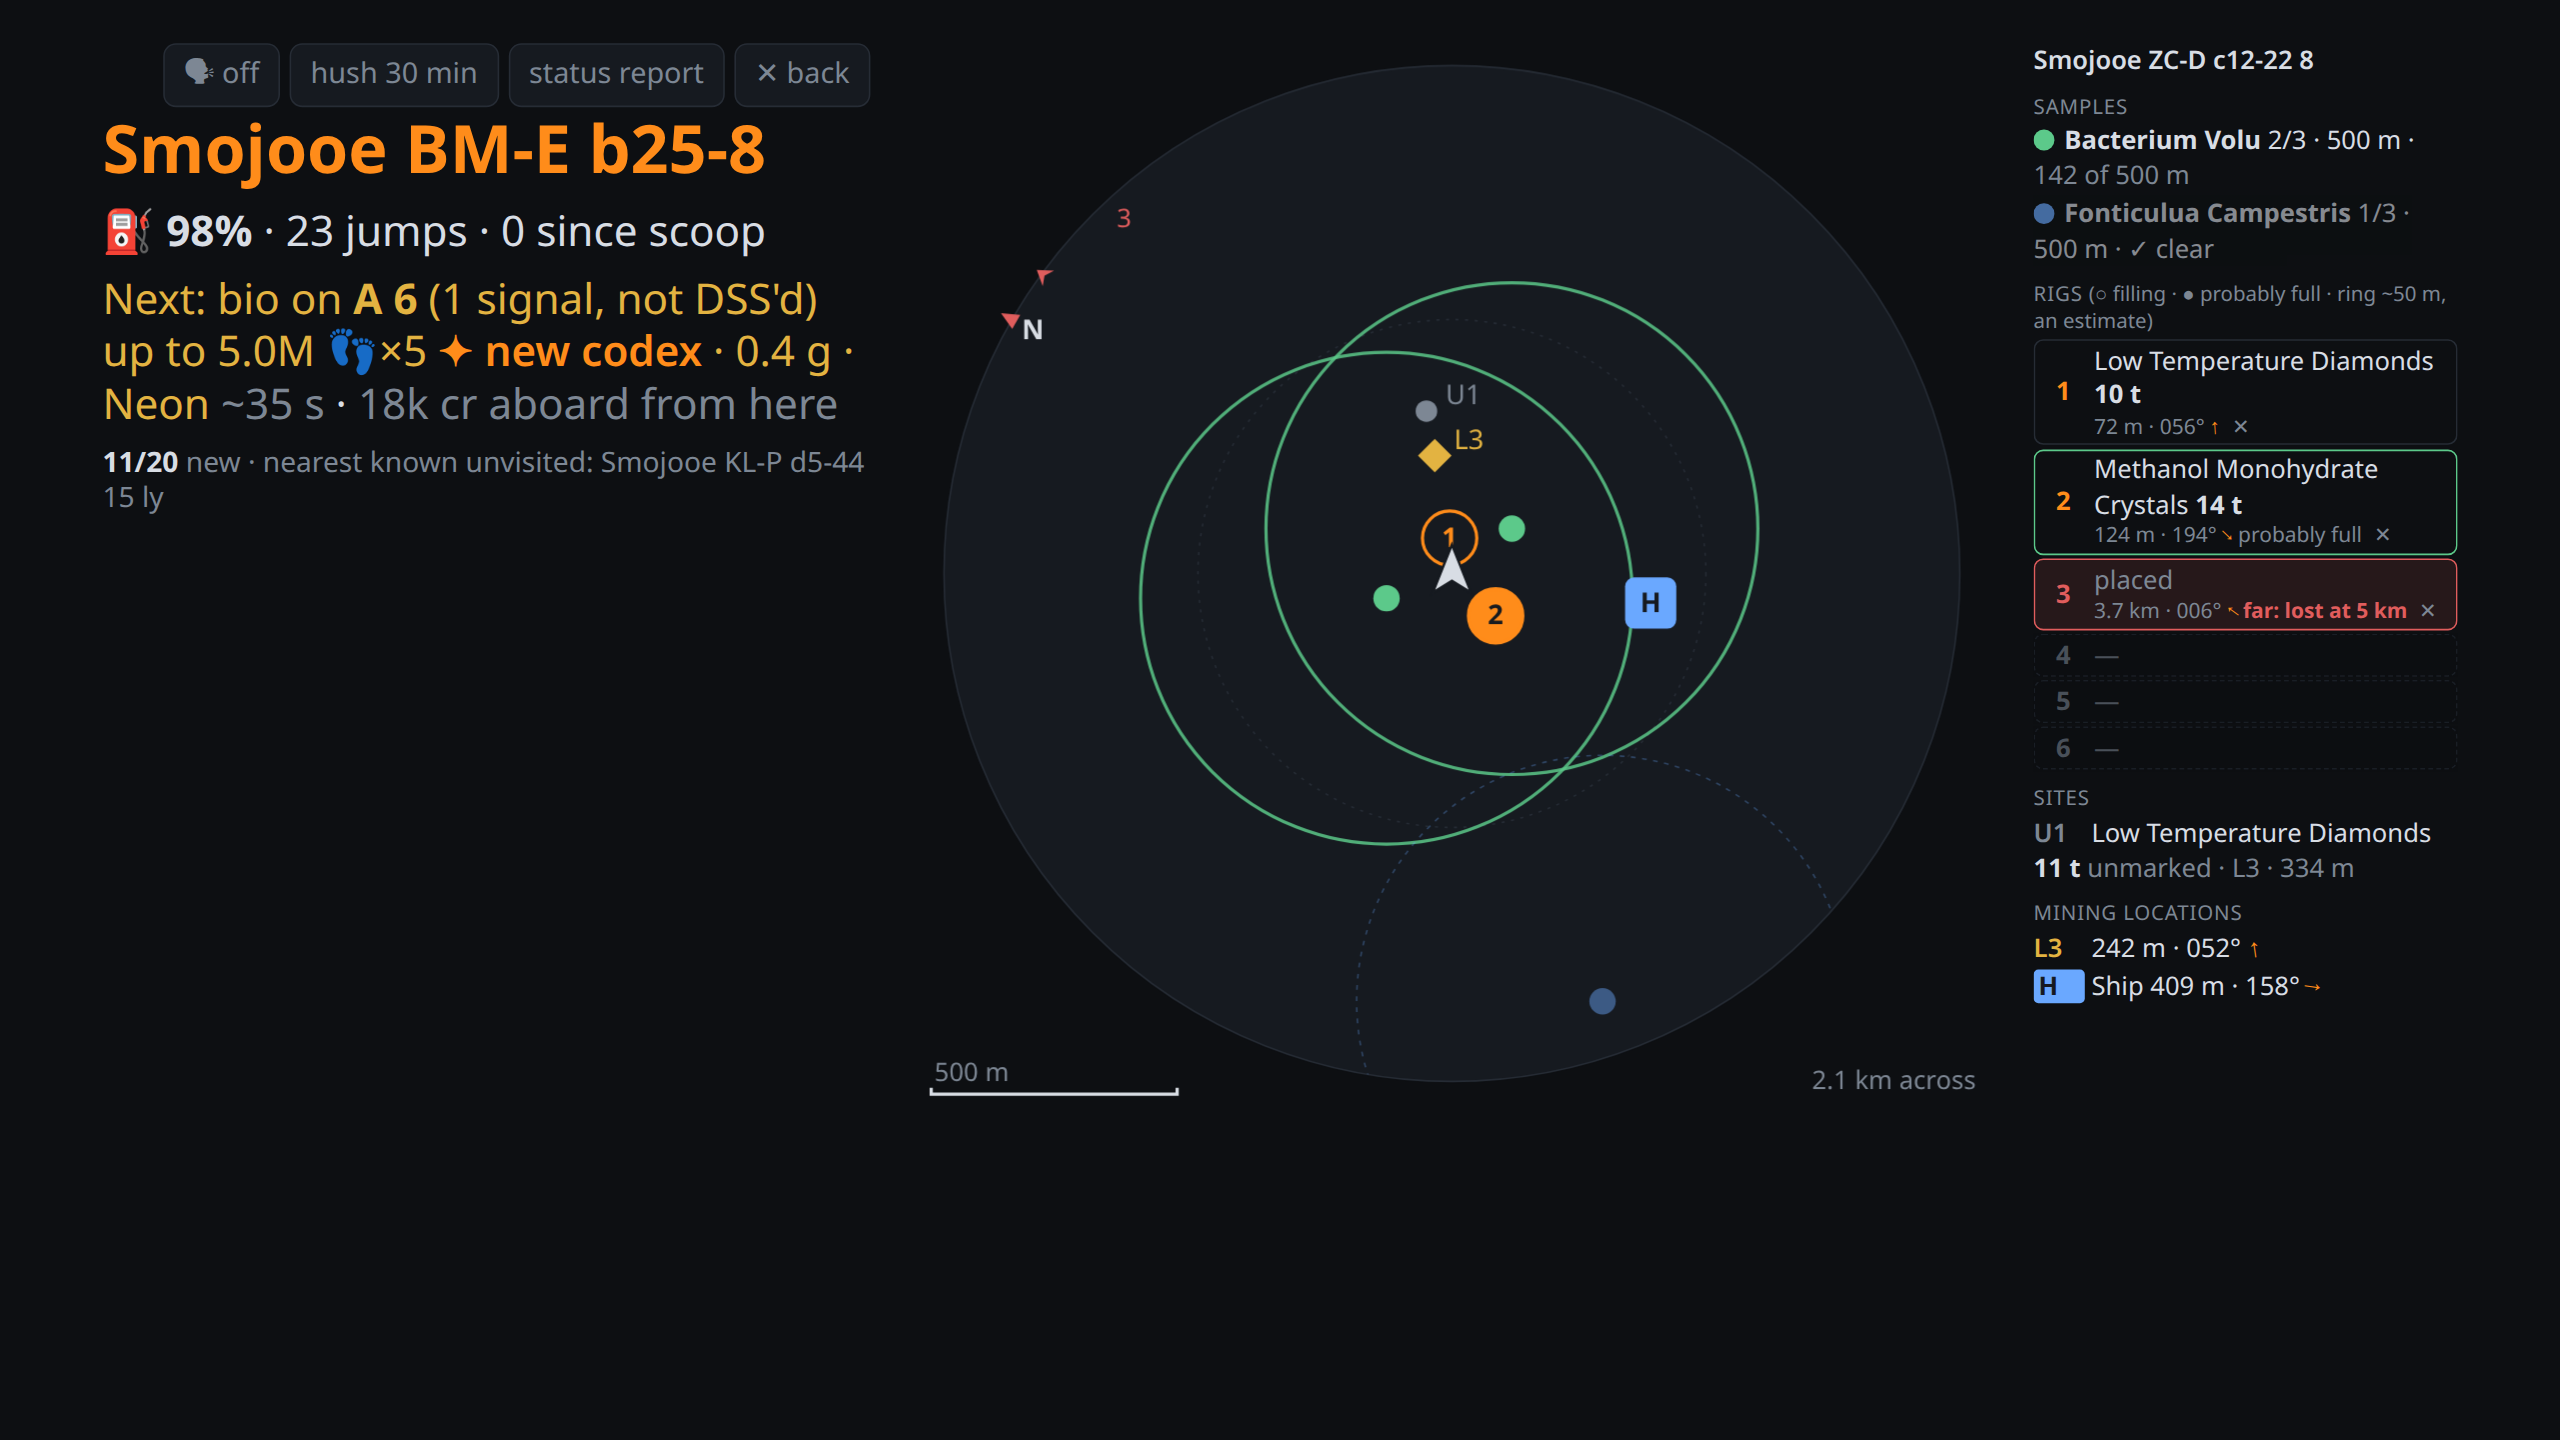
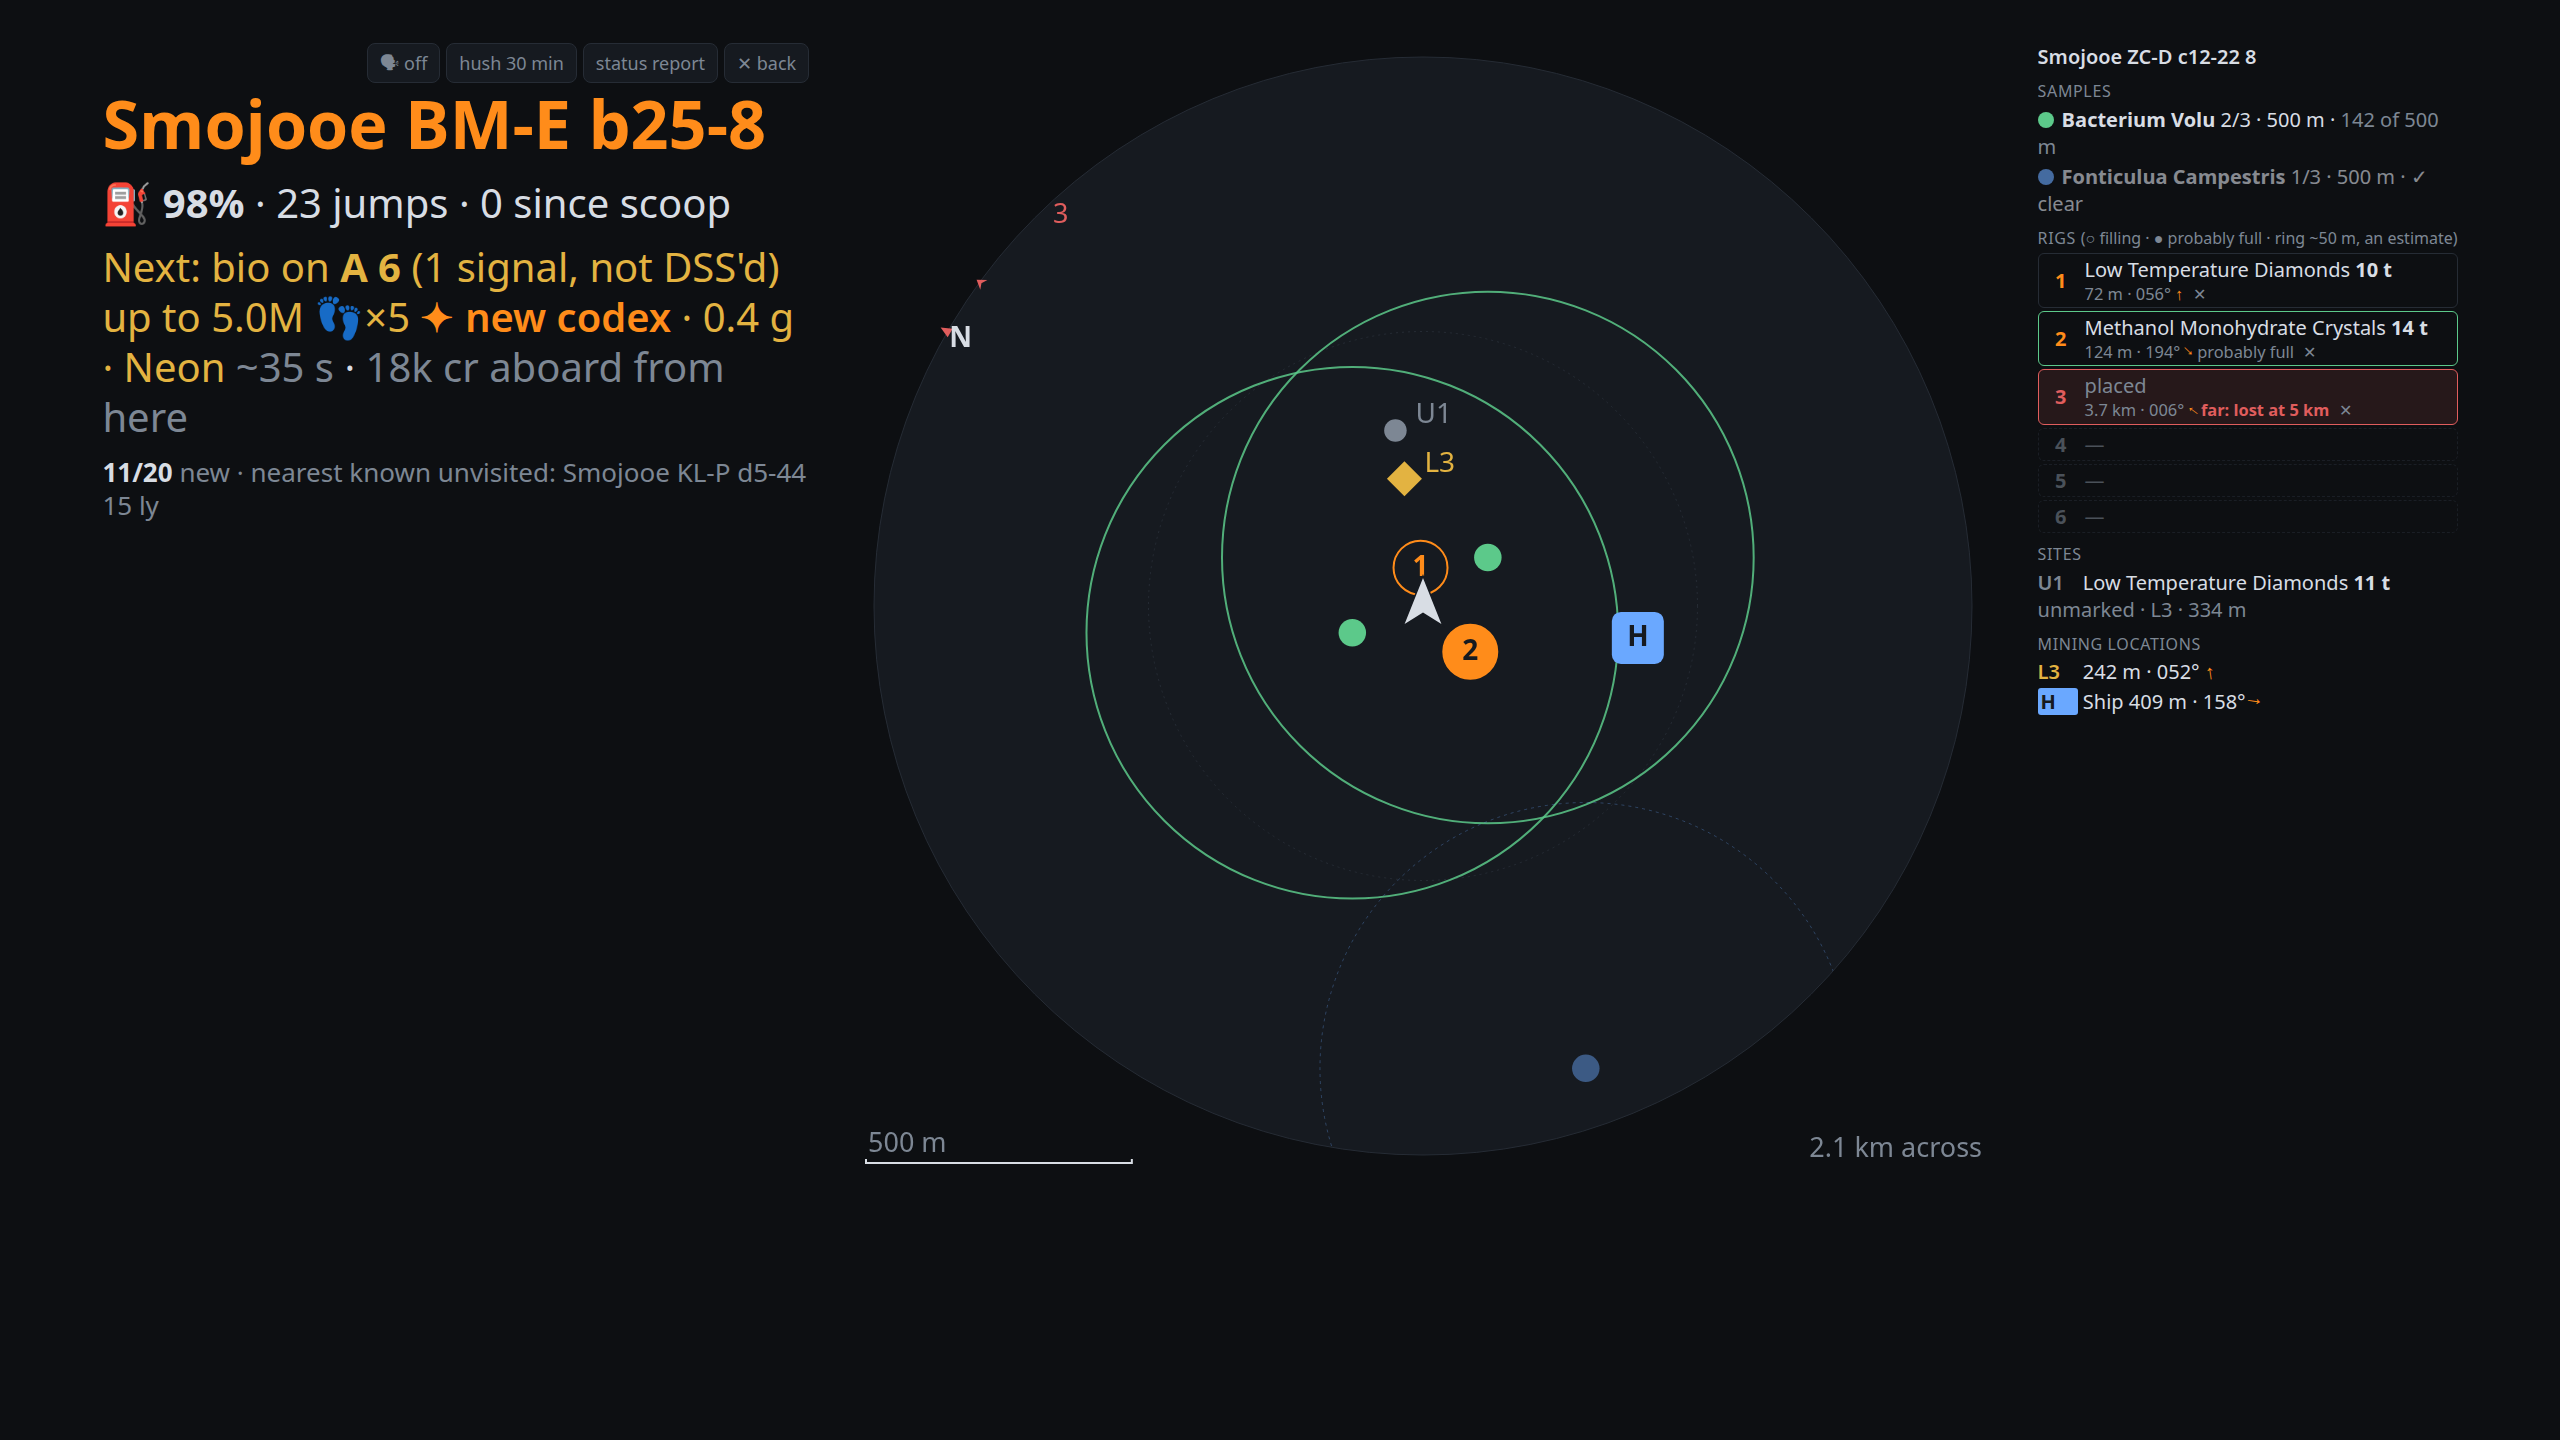
Screenshots at a true 2560x1440 (1440p at 100%), the tablet at its own 1920x1200
The author meant 1440p as seen, not a scaled-up smaller page: the desktop
shots are now a 2560x1440 page at 1x. The tablet's is the Galaxy Tab A11+'s
real screen (1280x800 at 1.5x = 1920x1200); the tablet layout stretched to
2560x1440 shows no real tablet.

diff --git a/docs/CHANGELOG.md b/docs/CHANGELOG.md
@@ -3,8 +3,9 @@
 Newest first, one entry per commit.
 
 ## 2026-10-04 · Version 2026.10.11; new screenshots
-- Every README screenshot retaken at 2560 × 1440 (the page at 160%): the orange view buttons, the split Here, the
-  drawn schematic (Lysood HP-I b9-2: water worlds and ringed gas giants), and the tablet with its control rail.
+- Every README screenshot retaken at a true 2560 × 1440 (a 1440p screen at 100%): the orange view buttons, the split
+  Here, the drawn schematic (Lysood HP-I b9-2: water worlds and ringed gas giants). The tablet's is at its own screen,
+  1920 × 1200 (a Galaxy Tab A11+), with its control rail.
 - Version 2026.10.11: the drawn schematic, "1 jump", `launch_outrider.sh`.
 
 ## 2026-10-04 · launch_outrider.sh
